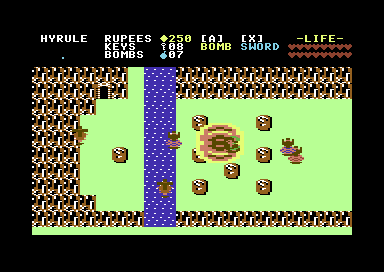
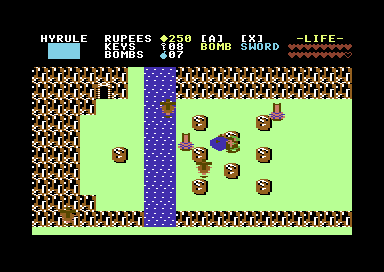
fix(debug,docs): restore VIC_CTRL2 multicolor on debug warps & regenerate all dungeon/boss screenshots

diff --git a/bugs.md b/bugs.md
@@ -778,3 +778,12 @@ Ce document consigne l'ensemble des anomalies identifiées, leurs causes racines
   - Dans `irq_top` (`src/enemies.asm`), garde explicite `lda loaded_overlay_bank; cmp #CART_BANK_OVL_INV; bne .inv_skip_top` avant d'appeler `jsr $a009`.
   - Factorisation des 3 helpers `cart_load_sprites_ow`/`_dung`/`_npc` dans `src/main.asm` libérant 22 octets en haute RAM résidente (`$9FF6 < $A000`, 10 octets libres).
 - **Validation** : 39/39 scénarios de tests aléatoires et de fluidité (`random_playtest_fluidity.py`) **0 anomalie, 0 fuite pile (`SP=$FF`), 49,45 FPS moyen (50,00 FPS constants en jeu et jusqu'à 8 ennemis actifs)**, + suites audio Dual SID (`test_dual_sid_dungeon.py`, `test_audio_queue_conflict.py`, `test_dungeon9_audio.py`) 100 % PASS.
+
+---
+
+### Anomalie 33 : Mode texte Hi-Res bloqué (tuiles rayées et couleurs de donjon ignorées) après un Warp Debug depuis l'Inventaire (`VIC_CTRL2` bit 4)
+- **Symptôme** : Lorsqu'on ouvrait l'Inventaire (qui désactive le bit 4 de `VIC_CTRL2` `$D016` pour afficher le texte en haute résolution) puis qu'on effectuait une téléportation via le Menu Debug (`debug_do_warp_dungeon` ou `debug_do_warp_overworld`) ou une fermeture directe (`close_debug`), l'écran de jeu restait bloqué en mode caractères Hi-Res monochrome : les tuiles multicolores des donjons s'affichaient sous forme de rayures verticales bleu clair uniformes et les palettes `VIC_BG_MC1`/`VIC_BG_MC2` des 9 donjons étaient totalement ignorées par le VIC-II.
+- **Cause** : `open_inventory` (`src/inventory.asm`) efface le bit 4 (`#%00010000`) de `VIC_CTRL2`, et seul `ovl_inventory_close` le réactivait. Les sorties de `src/debug.asm` (`close_debug`, `debug_do_warp_dungeon`, `debug_do_warp_overworld`) ne réarmaient pas ce bit avant de repasser en `STATE_PLAYING`.
+- **Correction** :
+  - Réactivation systématique du mode texte multicolore (`lda VIC_CTRL2; ora #%00010000; sta VIC_CTRL2`) dans `close_debug` (`.restore_p`), `debug_do_warp_dungeon` et `debug_do_warp_overworld` (`src/debug.asm`, Banque 30).
+- **Validation** : Recompilation propre (`build/zelda.crt`, Banque 30 `2916/8192 o`, RAM résidente inchangée `$9FF6 < $A000`) et regénération + inspection visuelle des 23 captures de donjons et boss (palettes multicolores NES distinctes pour les 9 donjons : Cyan, Bleu, Vert, Gris clair, Rouge, Orange, Vert, Gris moyen, Rouge sombre).
